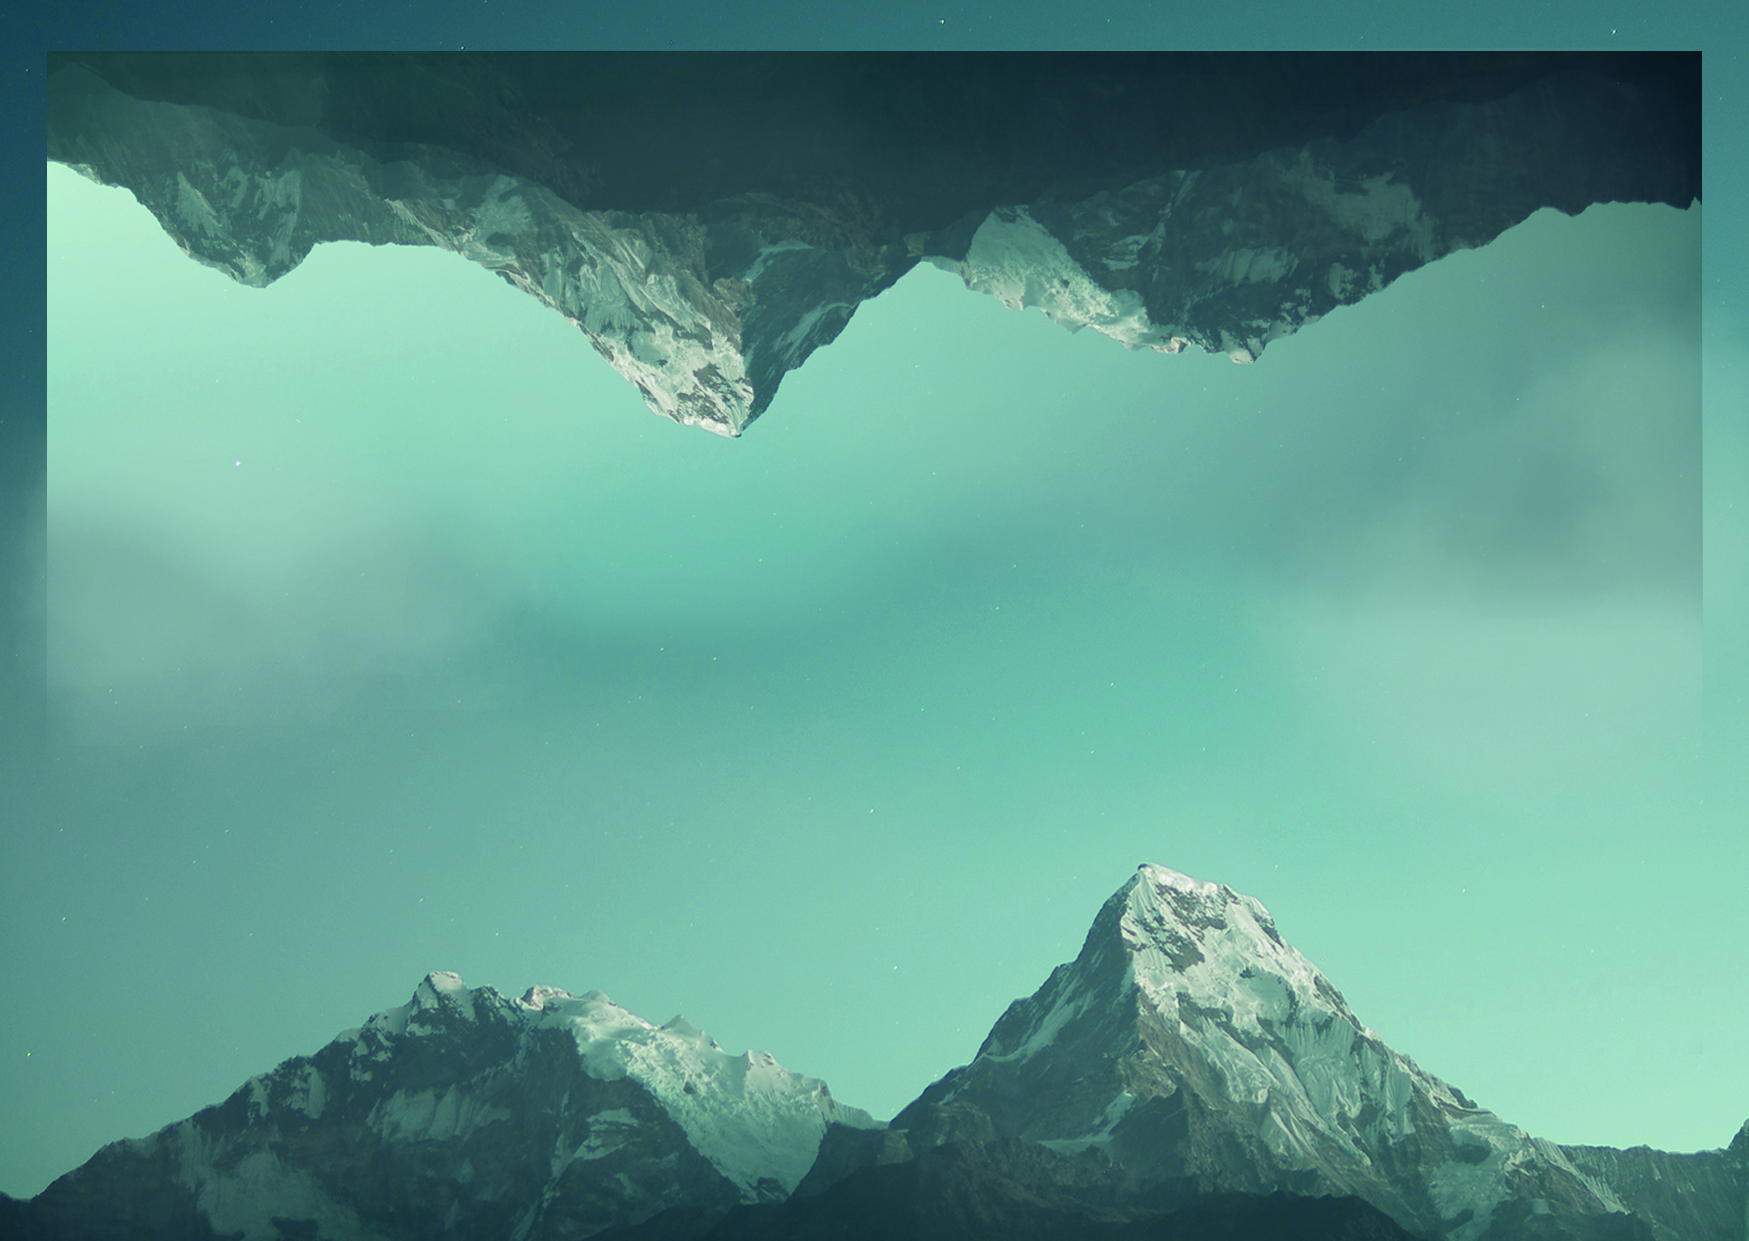
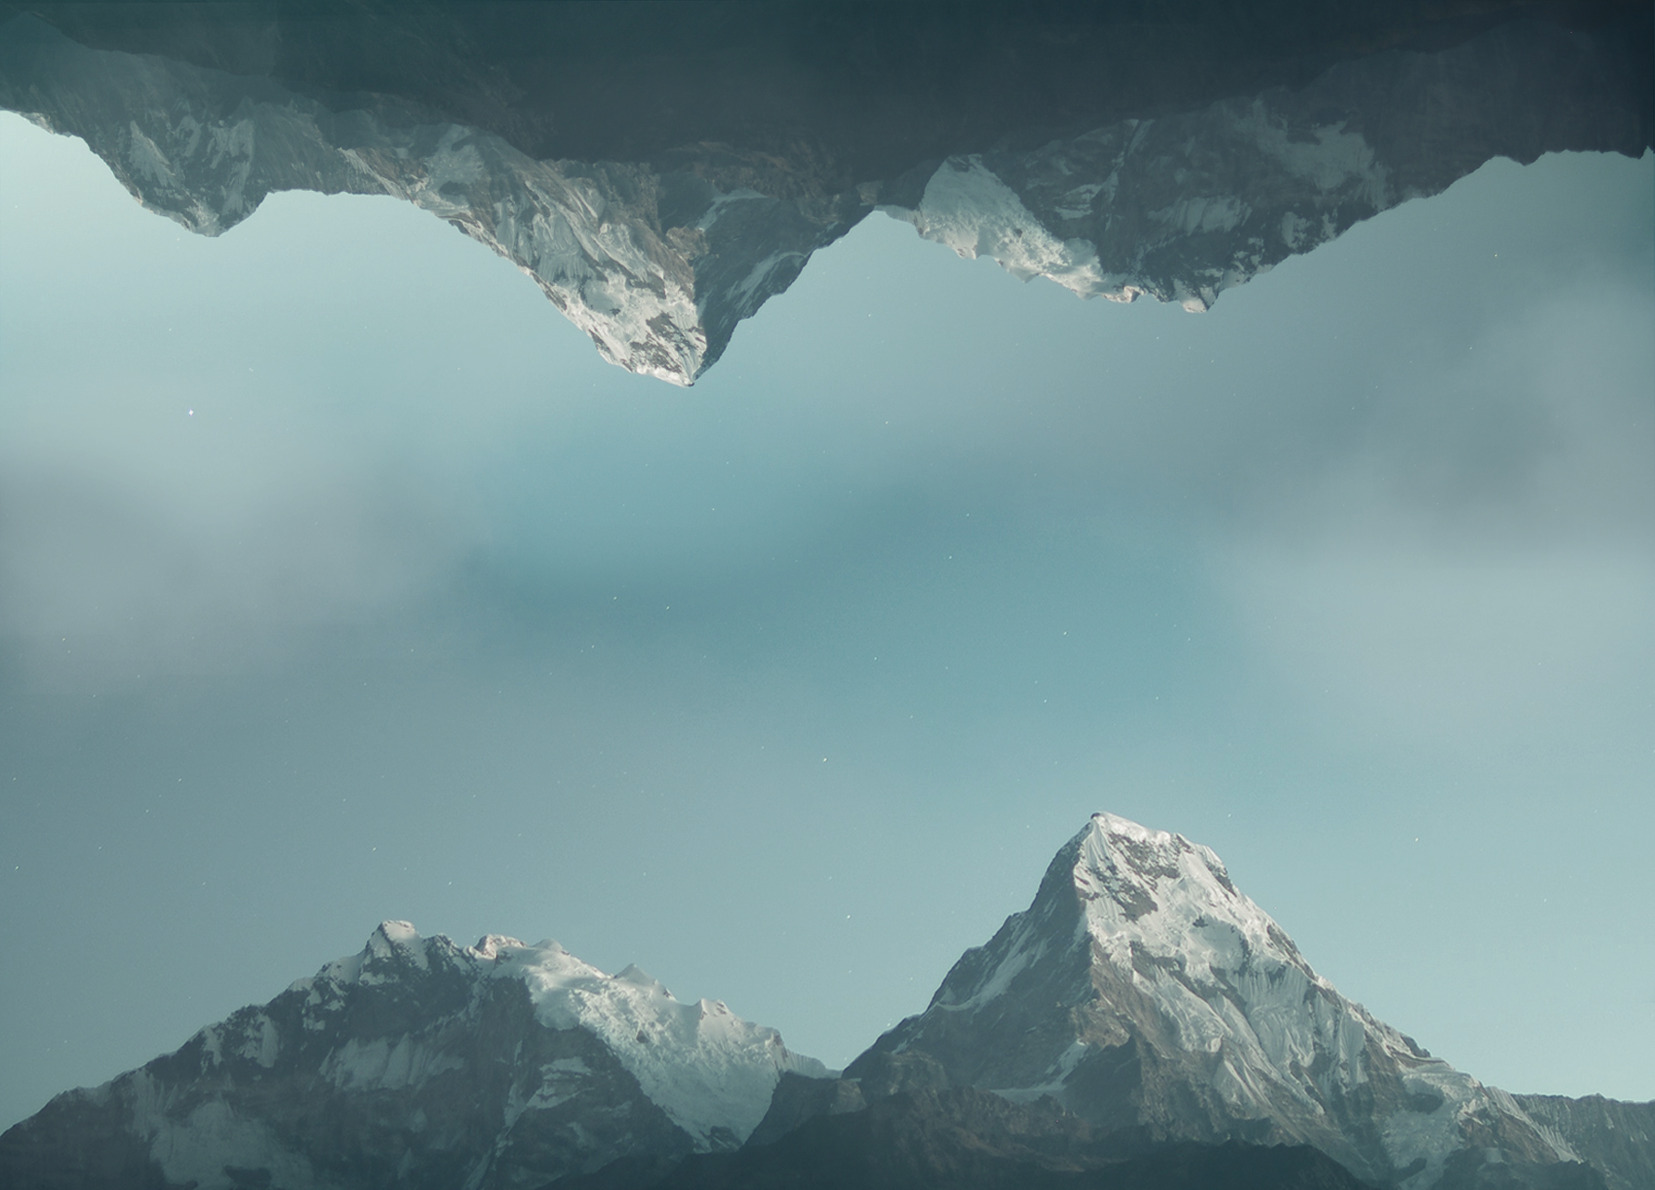
improve lots of stuff

diff --git a/registration/templates/index.html b/registration/templates/index.html
@@ -132,6 +132,8 @@
                                     <div style="grid-area: 1 / 1">
                                         <h2 style="display: none">Closer to me</h2><br>
                                         <dl>
+                                            <dt >08:00-08:20</dt>
+                                            <dd ><a href="#prayer-breakfast" style="color: white;" data-toggle="modal">Gebetsfrühstück, Lutherkirche</a></dd>
                                             <dt >14:00-18:00</dt>
                                             <dd >Kuchen auf der Neckarwiese</dd>
                                             <dt >15:00-17:00</dt>
@@ -152,6 +154,8 @@
                                     <div style="visibility: hidden; grid-area: 1 / 1">
                                         <h2 style="display: none">Closer to me</h2><br>
                                         <dl>
+                                            <dt >08:00-08:20</dt>
+                                            <dd ><a href="#prayer-breakfast" style="color: white;" data-toggle="modal">Gebetsfrühstück, Lutherkirche</a></dd>
                                             <dt >14:00-18:00</dt>
                                             <dd >Kuchen auf der Neckarwiese</dd>
                                             <dt >15:00-17:00</dt>
@@ -181,6 +185,8 @@
                                     <div style="grid-area: 1 / 1">
                                         <h2 style="display: none">Closer to the Edge</h2><br>
                                         <dl>
+                                            <dt >08:00-08:20</dt>
+                                            <dd ><a href="#prayer-breakfast" style="color: white;" data-toggle="modal">Gebetsfrühstück, Lutherkirche</a></dd>
                                             <dt >16:00</dt>
                                             <dd >Spiele auf der Neckarwiese, Special: Jugger</dd>
                                             <dt >16:00&nbsp;</dt>
@@ -198,6 +204,8 @@
                                     <div style="visibility: hidden; grid-area: 1 / 1">
                                         <h2 style="display: none">Closer to me</h2><br>
                                         <dl>
+                                            <dt >08:00-08:20</dt>
+                                            <dd ><a href="#prayer-breakfast" style="color: white;" data-toggle="modal">Gebetsfrühstück, Lutherkirche</a></dd>
                                             <dt >14:00-18:00</dt>
                                             <dd >Kuchen auf der Neckarwiese</dd>
                                             <dt >15:00-17:00</dt>
@@ -227,6 +235,8 @@
                                     <div style="grid-area: 1 / 1">
                                         <h2 style="display: none">Closer Together</h2><br>
                                         <dl>
+                                            <dt >08:00-08:20</dt>
+                                            <dd ><a href="#prayer-breakfast" style="color: white;" data-toggle="modal">Gebetsfrühstück, Lutherkirche</a></dd>
                                             <dt >14:00-18:00</dt>
                                             <dd >Kuchen auf der Neckarwiese</dd>
                                             <dt >16:00</dt>
@@ -246,6 +256,8 @@
                                     <div style="visibility: hidden; grid-area: 1 / 1">
                                         <h2 style="display: none">Closer to me</h2><br>
                                         <dl>
+                                            <dt >08:00-08:20</dt>
+                                            <dd ><a href="#prayer-breakfast" style="color: white;" data-toggle="modal">Gebetsfrühstück, Lutherkirche</a></dd>
                                             <dt >14:00-18:00</dt>
                                             <dd >Kuchen auf der Neckarwiese</dd>
                                             <dt >15:00-17:00</dt>
@@ -275,6 +287,8 @@
                                     <div style="grid-area: 1 / 1">
                                         <h2 style="display: none">Closer to Reality</h2><br>
                                         <dl>
+                                            <dt >08:00-08:20</dt>
+                                            <dd ><a href="#prayer-breakfast" style="color: white;" data-toggle="modal">Gebetsfrühstück, Lutherkirche</a></dd>
                                             <dt >16:00</dt>
                                             <dd >Spiele auf der Neckarwiese, Turniere: Volleyball, Spikeball</dd>
                                             <dt >19:00</dt>
@@ -293,6 +307,8 @@
                                     <div style="visibility: hidden; grid-area: 1 / 1">
                                         <h2 style="display: none">Closer to me</h2><br>
                                         <dl>
+                                            <dt >08:00-08:20</dt>
+                                            <dd ><a href="#prayer-breakfast" style="color: white;" data-toggle="modal">Gebetsfrühstück, Lutherkirche</a></dd>
                                             <dt >14:00-18:00</dt>
                                             <dd >Kuchen auf der Neckarwiese</dd>
                                             <dt >15:00-17:00</dt>
@@ -322,6 +338,8 @@
                                     <div style="grid-area: 1 / 1">
                                         <h2 style="display: none">Closer to Heaven</h2><br>
                                         <dl>
+                                            <dt >08:00-08:20</dt>
+                                            <dd ><a href="#prayer-breakfast" style="color: white;" data-toggle="modal">Gebetsfrühstück, Lutherkirche</a></dd>
                                             <dt >15:00-17:00</dt>
                                             <dd >KreideAktion, Treffpunkt Bismarckplatz</dd>
                                             <dt >19:00</dt>
@@ -338,6 +356,8 @@
                                     <div style="visibility: hidden; grid-area: 1 / 1">
                                         <h2 style="display: none">Closer to me</h2><br>
                                         <dl>
+                                            <dt >08:00-08:20</dt>
+                                            <dd ><a href="#prayer-breakfast" style="color: white;" data-toggle="modal">Gebetsfrühstück, Lutherkirche</a></dd>
                                             <dt >14:00-18:00</dt>
                                             <dd >Kuchen auf der Neckarwiese</dd>
                                             <dt >15:00-17:00</dt>
@@ -367,8 +387,8 @@
                                     <div style="grid-area: 1 / 1">
                                         <h2 style="display: none">Closer to Heaven</h2><br>
                                         <dl>
-                                            <dt >15:00-17:00</dt>
-                                            <dd >KreideAktion, Treffpunkt Bismarckplatz</dd>
+                                            <dt >08:00-08:20</dt>
+                                            <dd ><a href="#prayer-breakfast" style="color: white;" data-toggle="modal">Gebetsfrühstück, Lutherkirche</a></dd>
                                             <dt >19:00</dt>
                                             <dd >
                                                 Livestream <br>
@@ -386,6 +406,8 @@
                                     <div style="visibility: hidden; grid-area: 1 / 1">
                                         <h2 style="display: none">Closer to me</h2><br>
                                         <dl>
+                                            <dt >08:00-08:20</dt>
+                                            <dd ><a href="#prayer-breakfast" style="color: white;" data-toggle="modal">Gebetsfrühstück, Lutherkirche</a></dd>
                                             <dt >14:00-18:00</dt>
                                             <dd >Kuchen auf der Neckarwiese</dd>
                                             <dt >15:00-17:00</dt>
@@ -418,6 +440,27 @@
                 </div>
             </div>
         </section>
+        <!--Detail modals for above-->
+        <div class="modal fade" id="prayer-breakfast" tabindex="-1" aria-hidden="true">
+            <div class="modal-dialog">
+                <div class="modal-content">
+                    <div class="modal-header">
+                        <h5 class="modal-title">Gebetsfrühstück</h5>
+                        <button type="button" class="close" data-dismiss="modal" aria-label="Close">
+                            <span aria-hidden="true">&times;</span>
+                        </button>
+                    </div>
+                    <div class="modal-body">
+                        Jeden Morgen von 08:00 bis 08:20 wollen wir zusammen, d.h. in kleineren Gruppen von drei Haushalten,
+                        in der Lutherkirche beten und frühstücken.<br>
+                        Bring dafür bitte dein eigenes Frühstück & Geschirr mit, für Kaffee ist gesorgt!
+                    </div>
+                    <div class="modal-footer">
+                        <button type="button" class="btn btn-secondary" data-dismiss="modal">Close</button>
+                    </div>
+                </div>
+            </div>
+        </div>
         <section class="page-section bg-dark text-white p-0">
             <div class="container">
                 <div class="row">

diff --git a/registration/templates/registration/registration_index_map.html b/registration/templates/registration/registration_index_map.html
@@ -21,6 +21,15 @@
     <!--EasyButton for Leaflet-->
     <script src="https://cdn.jsdelivr.net/npm/leaflet-easybutton@2/src/easy-button.js"></script>
 
+    <link href="https://fonts.googleapis.com/css?family=Merriweather+Sans:400,700" rel="stylesheet">
+    <link href="https://fonts.googleapis.com/css?family=Merriweather:400,300,300italic,400italic,700,700italic" rel="stylesheet" type="text/css">
+    <link href="https://fonts.googleapis.com/css2?family=Raleway:wght@700&amp;display=swap" rel="stylesheet">
+    <!-- Third party plugin CSS-->
+    <link href="https://cdnjs.cloudflare.com/ajax/libs/magnific-popup.js/1.1.0/magnific-popup.min.css" rel="stylesheet">
+    <!-- Core theme CSS (includes Bootstrap)-->
+    <link href="{% static 'css/styles.css' %}" rel="stylesheet">
+    <link href="{% static 'css/custom_styles.css' %}" rel="stylesheet">
+
     <!--<script src="https://code.jquery.com/jquery-3.5.1.slim.min.js"
             integrity="sha384-DfXdz2htPH0lsSSs5nCTpuj/zy4C+OGpamoFVy38MVBnE+IbbVYUew+OrCXaRkfj"
             crossorigin="anonymous"></script>-->
@@ -49,6 +58,7 @@
 
     <script>
         data = {{ loc_dict | safe }};
+        console.log(data);
         var map = L.map('map').setView({ lat: 49.43, lon: 8.6759873 }, 12);
         // add the OpenStreetMap tiles
         L.tileLayer('https://{s}.tile.openstreetmap.org/{z}/{x}/{y}.png', {
@@ -59,7 +69,25 @@
         // show the scale bar on the lower left corner
         L.control.scale().addTo(map);
         var yellowIcon = L.icon({
-            iconUrl: "{% static 'marker.svg' %}",
+            iconUrl: "{% static 'marker_yellow.svg' %}",
+            iconSize: [38, 95], // size of the icon
+            shadowSize: [50, 64], // size of the shadow
+            iconAnchor: [22, 94], // point of the icon which will correspond to marker's location
+            shadowAnchor: [4, 62],  // the same for the shadow
+            popupAnchor: [-3, -76] // point from which the popup should open relative to the iconAnchor
+        });
+
+        var greenIcon = L.icon({
+            iconUrl: "{% static 'marker_green.svg' %}",
+            iconSize: [38, 95], // size of the icon
+            shadowSize: [50, 64], // size of the shadow
+            iconAnchor: [22, 94], // point of the icon which will correspond to marker's location
+            shadowAnchor: [4, 62],  // the same for the shadow
+            popupAnchor: [-3, -76] // point from which the popup should open relative to the iconAnchor
+        });
+
+        var redIcon = L.icon({
+            iconUrl: "{% static 'marker_red.svg' %}",
             iconSize: [38, 95], // size of the icon
             shadowSize: [50, 64], // size of the shadow
             iconAnchor: [22, 94], // point of the icon which will correspond to marker's location
@@ -75,7 +103,7 @@
                     onClick: (control) => window.open("https://{{ domain }}/registration/new_watchparty/", "_self"),
                     icon: 'fa-plus',
                     title: 'Erstelle eine neue Watchparty'
-                }] 
+                }]
             }
         ).addTo(map)
 
@@ -84,21 +112,45 @@
                 value = data[key];
                 await $.get(
                     location.protocol + '//nominatim.openstreetmap.org/search?format=json&q=' + value.plzcity + ", " + value.street,
-                    function (data) {
-                        console.log(data);
-                        lon = data[0].lon;
-                        lat = data[0].lat;
+                    function (loc_data) {
+                        console.log(loc_data);
+                        lon = loc_data[0].lon;
+                        lat = loc_data[0].lat;
                         //var popupStr = '<strong>' + value.plzcity + '</strong><br>' + value.street + '<br><br>' + '<a href="' + value.link + '">Anmeldung</a>'
                         var popup_str = value.popup_str
-                        L.marker([lat, lon], { icon: yellowIcon }).addTo(map).bindPopup(popup_str);
+                        if (value.color == 'green') idict = { icon: greenIcon }
+                        if (value.color == 'yellow') idict = { icon: yellowIcon }
+                        if (value.color == 'red') idict = { icon: redIcon }
+
+                        L.marker([lat, lon], idict).addTo(map).bindPopup(popup_str);
                     }
                 );
             }
         }
         add_markers()
+        var legend = L.control({ position: "bottomleft" });
+
+        legend.onAdd = function (map) {
+            var div = L.DomUtil.create("div", "legend bg-dark text-light rounded shadow-lg");
+            div.innerHTML += "<h4 class='text-white'>Legende</h4>";
+            div.innerHTML += '<i class="rounded" style="background: #5cb85c"></i><span>Freie Plätze für alle</span><br>';
+            div.innerHTML += '<i class="rounded" style="background: #ffcf48"></i><span>Freie Plätze nur für Geimpfte</span><br>';
+            div.innerHTML += '<i class="rounded" style="background: #d9534f"></i><span>Aktuell keine freien Plätze</span><br>';
+
+
+
+            return div;
+        };
+
+        legend.addTo(map);
 
     </script>
-    <!--<script src="{% static 'locations.js' %}"></script>-->
+     <script src="https://ajax.googleapis.com/ajax/libs/jquery/3.5.1/jquery.min.js"></script>
+     <script src='https://ajax.googleapis.com/ajax/libs/jqueryui/1.8.5/jquery-ui.min.js'></script>
+     <script src="https://cdn.jsdelivr.net/npm/bootstrap@4.5.3/dist/js/bootstrap.bundle.min.js"></script>
+     <!-- Third party plugin JS-->
+     <!--<script src="https://cdnjs.cloudflare.com/ajax/libs/jquery-easing/1.4.1/jquery.easing.min.js"></script>-->
+     <script src="https://cdnjs.cloudflare.com/ajax/libs/magnific-popup.js/1.1.0/jquery.magnific-popup.min.js"></script>
 </body>
 
 </html>

diff --git a/static/css/custom_styles.css b/static/css/custom_styles.css
@@ -1,3 +1,34 @@
+.legend {
+    padding: 6px 8px;
+    opacity: .85;
+  }
+  .legend h4 {
+    text-align: center;
+    font-size: 16px;
+    margin: 2px 12px 8px;
+    color: #777;
+  }
+  /*
+  .legend span {
+    position: relative;
+    bottom: 3px;
+  }
+  */
+  
+  .legend i {
+    width: 18px;
+    height: 18px;
+    float: left;
+    margin: 0 8px 0 0;
+    opacity: 0.7;
+  }
+  
+  .legend i.icon {
+    background-size: 18px;
+    background-color: rgba(255, 255, 255, 1);
+  }
+
+
 body {
     font-family: "Merriweather Sans";
 }
@@ -30,11 +61,10 @@ body {
 
  */
 
-.mihamm-mask {
+/*.mihamm-mask {
     /*mask-image: linear-gradient(to bottom, rgba(248, 249,250,0), rgba(248, 249,250,0.8) 30%, rgba(255, 0,0,0.8) 70%, rgba(255, 0,0,0.3) 80%, rgba(0,0,0, 0));
     -webkit-mask-image: linear-gradient(to bottom, rgba(248, 249,250,0), rgba(248, 249,250,0.8) 30%, rgba(255, 0,0,0.8) 70%, rgba(255, 0,0,0.3) 80%, rgba(0,0,0, 0));
-     */
-}
+}*/
 
 @media (max-width: 440px) {
     .day {

diff --git a/static/css/styles.css b/static/css/styles.css
@@ -10105,7 +10105,7 @@ hr.light {
 header.masthead {
   padding-top: 10rem;
   padding-bottom: calc(10rem - 4.5rem);
-  background: linear-gradient(to bottom, rgba(52, 58, 64, 0.7) 0%, rgba(52, 58, 64, 0.8) 100%), url("../assets/img/berge_2_smaller.jpg");
+  background: linear-gradient(to bottom, rgba(52, 58, 64, 0.7) 0%, rgba(52, 58, 64, 0.8) 100%), url("../assets/img/berge_2.jpg");
   /*background: linear-gradient(to bottom, rgba(92, 77, 66, 0.7) 0%, rgba(92, 77, 66, 0.8) 100%), url("../assets/img/berge_2_smaller.jpg");*/
   /*background: url('../assets/img/berge_2_smaller.jpg');*/
   background-position: center;

diff --git a/registration/templates/registration/registration.html b/registration/templates/registration/registration.html
@@ -17,7 +17,7 @@
     <body class="bg-dark p-3">
         <div class="container bg-light p-3">
             <h2>Anmeldung Watchparty</h2>
-            {% if (watchparty_list|length > 0) %}
+            {% if watchparty_list|length > 0 %}
             <h3>Adresse</h3>
             <p>
                 {{ watchparty_list.0.street }}<br> <!-- all watchpartys have the same address-->

diff --git a/registration/templates/registration/registration_same_household.html b/registration/templates/registration/registration_same_household.html
@@ -17,7 +17,7 @@
     <body class="bg-dark p-3">
         <div class="container bg-light p-3">
             <h2>Anmeldung Watchparty</h2>
-            {% if (watchparty_list|length > 0) %}
+            {% if watchparty_list|length > 0 %}
             <h3>Adresse</h3>
             <p>
                 {{ watchparty_list.0.street }}<br> <!-- all watchpartys have the same address-->

diff --git a/registration/views.py b/registration/views.py
@@ -40,8 +40,14 @@ def index(request):
             """
         if (get_free_vaccinated(watchparty)) <= 0:
             popup_str += f"<br><a href=' { link } '>Anmeldung</a>"
-            
-        loc_dict[watchparty.loc_id] = {"plzcity": plzcity, "street": watchparty.street, "link": link, "popup_str": popup_str}
+
+        if get_free_unvaccinated(watchparty) > 0:
+            color = "green"
+        elif get_free_vaccinated(watchparty) > 0:
+            color = "yellow"
+        else:
+            color = "red"
+        loc_dict[watchparty.loc_id] = {"plzcity": plzcity, "street": watchparty.street, "link": link, "popup_str": popup_str, "color": color}
 
     domain = get_current_site(request).domain
 
